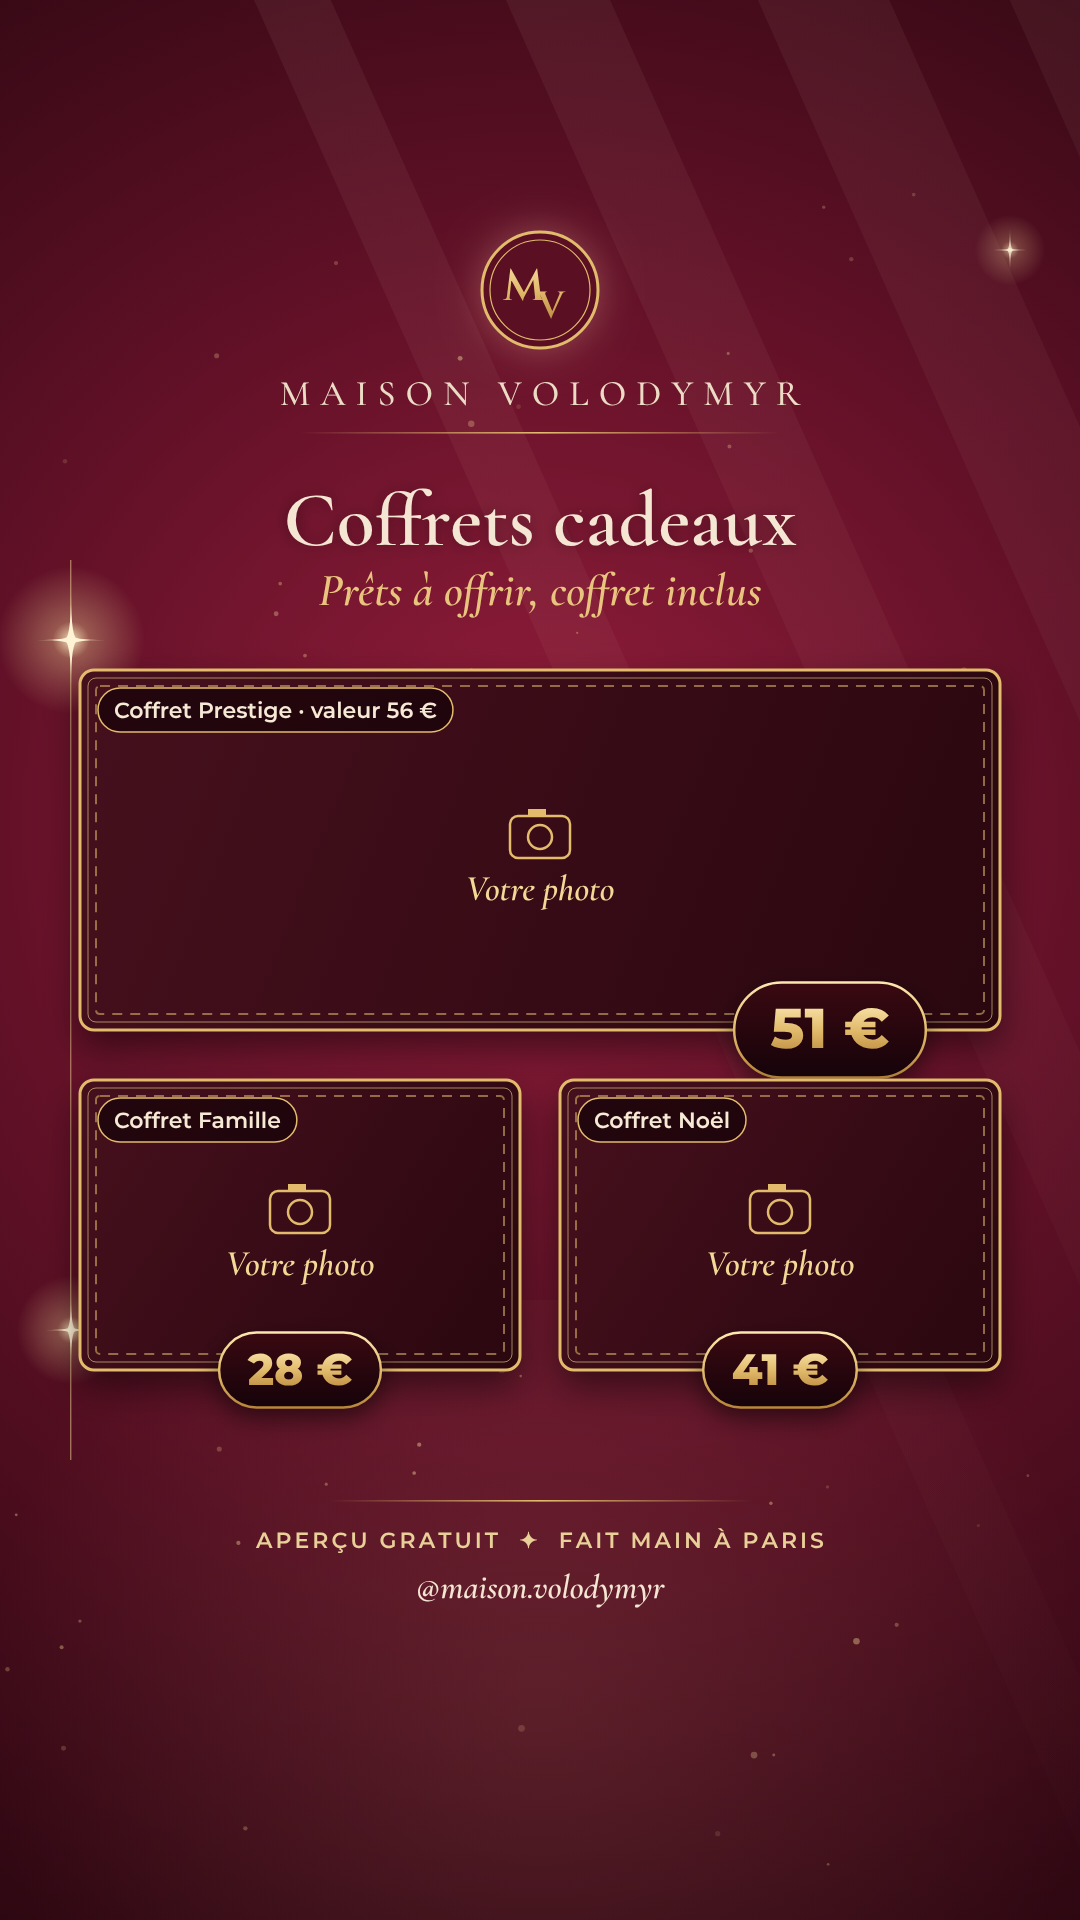
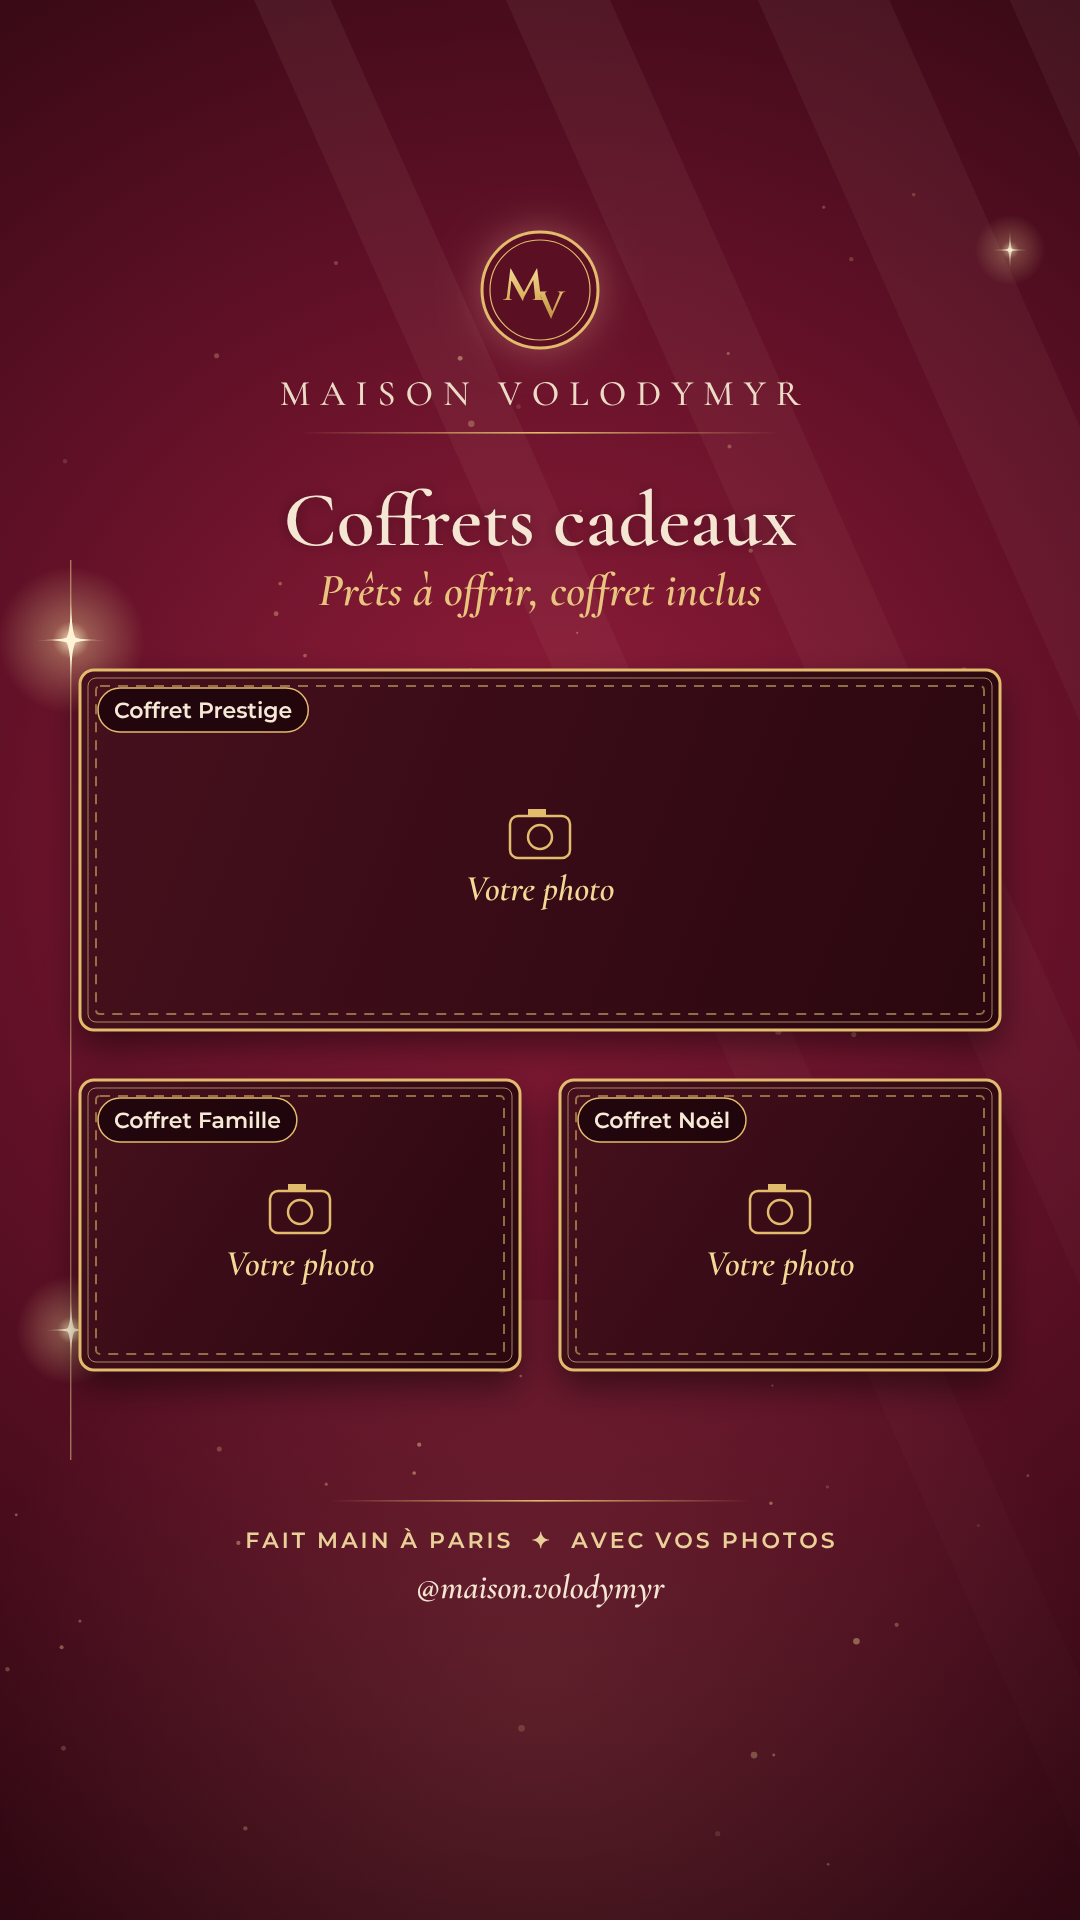
Remove prices outside Tarifs and the 'aperçu gratuit' line from visuals
Claude-Session: https://claude.ai/code/session_01NVYZfQU8cBxnfbyUcCNFxq

diff --git a/studio/studio.html b/studio/studio.html
@@ -46,7 +46,7 @@ input[type=range]{width:100%;accent-color:var(--gold)}
 <body>
 <div class="wrap">
  <h1>Studio Maison Volodymyr</h1>
- <p class="lead">Выбери слайд, нажми на рамку и вставь своё фото. Перетаскивай фото пальцем, масштабируй ползунком, меняй цены справа, потом нажми «Сохранить PNG». Слайды 1080×1920 (формат сторис 9:16), текст на французском. Верх и низ оставлены свободными под интерфейс Instagram.</p>
+ <p class="lead">Выбери слайд, нажми на рамку и вставь своё фото. Перетаскивай фото пальцем, масштабируй ползунком, цены (по желанию) и подписи меняй справа; пустое поле цены скрывает ценник, потом нажми «Сохранить PNG». Слайды 1080×1920 (формат сторис 9:16), текст на французском. Верх и низ оставлены свободными под интерфейс Instagram.</p>
  <div class="tabs" id="tabs" role="tablist"></div>
  <div class="main">
   <div class="stage"><canvas id="cv" width="1080" height="1920" aria-label="Предпросмотр слайда"></canvas><p class="hint">Пустые рамки сохраняются как красивая заглушка «Votre photo». В слайд «Отзывы» вставляй скриншот сообщения клиента (с его разрешения). Фото не уходят в интернет, они остаются только в этом окне.</p></div>
@@ -58,21 +58,21 @@ input[type=range]{width:100%;accent-color:var(--gold)}
 <script>
 const W=1080,H=1920,cv=document.getElementById('cv'),ctx=cv.getContext('2d');
 const DISP='"Cinzel",Georgia,serif',ITAL='italic 600 {s}px "Cormorant Garamond",Georgia,serif',SANS='Montserrat,Arial,sans-serif';
-const FOOT={f1:'APERÇU GRATUIT  ✦  FAIT MAIN À PARIS',f2:'@maison.volodymyr'};
+const FOOT={f1:'FAIT MAIN À PARIS  ✦  AVEC VOS PHOTOS',f2:'@maison.volodymyr'};
 const SL=[
- {id:'tasses',name:'☕ Кружки',title:'Tasses photo',sub:'Votre photo, votre cadeau',f:{p:'10 €',cap:'La tasse personnalisée'},fl:{p:'Цена кружки',cap:'Подпись'},
+ {id:'tasses',name:'☕ Кружки',title:'Tasses photo',sub:'Votre photo, votre cadeau',f:{p:'',cap:'La tasse personnalisée'},fl:{p:'Цена кружки',cap:'Подпись'},
   el:[{t:'slot',x:80,y:670,w:580,h:690,k:'mug'},{t:'slot',x:690,y:670,w:310,h:330,k:'mug'},{t:'slot',x:690,y:1030,w:310,h:330,k:'mug'},{t:'pill',x:370,y:1360,txt:'{p}'},{t:'it',x:540,y:1450,txt:'{cap}',s:36}]},
- {id:'metal',name:'🖼 Фото на металле',title:'Photo sur métal',sub:'Votre photo, sublimée',f:{s1:'15 × 20 cm',p1:'6 €',s2:'20 × 30 cm',p2:'8 €'},fl:{s1:'Формат 1',p1:'Цена 1',s2:'Формат 2',p2:'Цена 2'},
-  el:[{t:'slot',x:120,y:680,w:280,h:360,k:'metal'},{t:'size',x:470,y:820,txt:'{s1}'},{t:'arrow',x1:472,y1:885,x2:640,y2:885},{t:'pill',x:830,y:885,txt:'{p1}'},
-      {t:'slot',x:120,y:1085,w:280,h:360,k:'metal'},{t:'size',x:470,y:1225,txt:'{s2}'},{t:'arrow',x1:472,y1:1290,x2:640,y2:1290},{t:'pill',x:830,y:1290,txt:'{p2}'}]},
- {id:'grand',name:'🖼 Большой формат',title:'Grand format',sub:'Photo sur métal 30 × 40 cm',f:{p:'dès 25 €',small:'Aussi : 10 × 15 cm · 4 €   |   5,5 × 8,5 cm · 2 €'},fl:{p:'Цена 30×40',small:'Строка про другие форматы'},
+ {id:'metal',name:'🖼 Фото на металле',title:'Photo sur métal',sub:'Votre photo, sublimée',f:{s1:'15 × 20 cm',p1:'',s2:'20 × 30 cm',p2:''},fl:{s1:'Формат 1',p1:'Цена 1',s2:'Формат 2',p2:'Цена 2'},
+  el:[{t:'slot',x:120,y:680,w:280,h:360,k:'metal'},{t:'size',x:470,y:820,txt:'{s1}'},{t:'arrow',x1:472,y1:885,x2:640,y2:885,need:'p1'},{t:'pill',x:830,y:885,txt:'{p1}'},
+      {t:'slot',x:120,y:1085,w:280,h:360,k:'metal'},{t:'size',x:470,y:1225,txt:'{s2}'},{t:'arrow',x1:472,y1:1290,x2:640,y2:1290,need:'p2'},{t:'pill',x:830,y:1290,txt:'{p2}'}]},
+ {id:'grand',name:'🖼 Большой формат',title:'Grand format',sub:'Photo sur métal 30 × 40 cm',f:{p:'',small:'Aussi en 10 × 15 et 5,5 × 8,5 cm'},fl:{p:'Цена 30×40',small:'Строка про другие форматы'},
   el:[{t:'slot',x:285,y:680,w:510,h:680,k:'metal'},{t:'pill',x:540,y:1365,txt:'{p}'},{t:'small',x:540,y:1450,txt:'{small}'}]},
- {id:'cles',name:'🔑 Брелки и магниты',title:'Porte-clés & magnets',sub:'Petits cadeaux, grands souvenirs',f:{n1:'Porte-clés métal',p1:'4 €',n2:'Double face',p2:'5 €',n3:'Pendentif',p3:'8 €',n4:'Magnet photo',p4:'3 €',small:'Porte-clés plastique dès 2 €'},fl:{n1:'Название 1',p1:'Цена 1',n2:'Название 2',p2:'Цена 2',n3:'Название 3',p3:'Цена 3',n4:'Название 4',p4:'Цена 4',small:'Нижняя строка'},
+ {id:'cles',name:'🔑 Брелки и магниты',title:'Porte-clés & magnets',sub:'Petits cadeaux, grands souvenirs',f:{n1:'Porte-clés métal',p1:'',n2:'Double face',p2:'',n3:'Pendentif',p3:'',n4:'Magnet photo',p4:'',small:'Aussi en plastique'},fl:{n1:'Название 1',p1:'Цена 1',n2:'Название 2',p2:'Цена 2',n3:'Название 3',p3:'Цена 3',n4:'Название 4',p4:'Цена 4',small:'Нижняя строка'},
   el:[{t:'slot',x:85,y:670,w:430,h:320,k:'gold',tag:'{n1}'},{t:'pill',x:300,y:990,txt:'{p1}',sz:44},{t:'slot',x:565,y:670,w:430,h:320,k:'gold',tag:'{n2}'},{t:'pill',x:780,y:990,txt:'{p2}',sz:44},
       {t:'slot',x:85,y:1045,w:430,h:320,k:'gold',tag:'{n3}'},{t:'pill',x:300,y:1365,txt:'{p3}',sz:44},{t:'slot',x:565,y:1045,w:430,h:320,k:'gold',tag:'{n4}'},{t:'pill',x:780,y:1365,txt:'{p4}',sz:44},{t:'small',x:540,y:1450,txt:'{small}'}]},
  {id:'avis',name:'⭐ Отзывы',title:'Vos avis',sub:'Merci pour vos mots doux',f:{nom:'— Prénom du client',mot:'Collez ici les mots de votre client'},fl:{nom:'Подпись: имя настоящего клиента',mot:'Цитата из его настоящего отзыва'},
   el:[{t:'it',x:540,y:700,txt:'« {mot} »',s:40},{t:'slot',x:150,y:740,w:780,h:560,k:'gold'},{t:'stars',x:540,y:1365},{t:'small',x:540,y:1445,txt:'{nom}'}]},
- {id:'coffrets',name:'🎁 Наборы',title:'Coffrets cadeaux',sub:'Prêts à offrir, coffret inclus',f:{n1:'Coffret Prestige · valeur 56 €',p1:'51 €',n2:'Coffret Famille',p2:'28 €',n3:'Coffret Noël',p3:'41 €'},fl:{n1:'Набор 1',p1:'Цена 1',n2:'Набор 2',p2:'Цена 2',n3:'Набор 3',p3:'Цена 3'},
+ {id:'coffrets',name:'🎁 Наборы',title:'Coffrets cadeaux',sub:'Prêts à offrir, coffret inclus',f:{n1:'Coffret Prestige',p1:'',n2:'Coffret Famille',p2:'',n3:'Coffret Noël',p3:''},fl:{n1:'Набор 1',p1:'Цена 1',n2:'Набор 2',p2:'Цена 2',n3:'Набор 3',p3:'Цена 3'},
   el:[{t:'slot',x:80,y:670,w:920,h:360,k:'gold',tag:'{n1}'},{t:'pill',x:830,y:1030,txt:'{p1}'},{t:'slot',x:80,y:1080,w:440,h:290,k:'gold',tag:'{n2}'},{t:'pill',x:300,y:1370,txt:'{p2}',sz:44},{t:'slot',x:560,y:1080,w:440,h:290,k:'gold',tag:'{n3}'},{t:'pill',x:780,y:1370,txt:'{p3}',sz:44}]}
 ];
 let cur=0;const IM={};// key "slide.slot" -> {img,zoom,ox,oy}
@@ -126,7 +126,7 @@ function slot(s,e,i){
  if(e.tag){const t=fill(s,e.tag);ctx.font='600 22px '+SANS;const tw=ctx.measureText(t).width;ctx.fillStyle='rgba(26,4,9,.78)';rr(e.x+18,e.y+18,tw+32,44,22);ctx.fill();ctx.strokeStyle='#e2bb6c';ctx.lineWidth=1.5;ctx.stroke();ctx.fillStyle='#f6e9d6';ctx.textAlign='left';ctx.fillText(t,e.x+34,e.y+48)}
 }
 function pill(s,e){
- const t=fill(s,e.txt),sz=e.sz||56;ctx.font=`800 ${sz}px ${SANS}`;const tw=ctx.measureText(t).width,h=sz*1.7,w=tw+sz*1.3,x=e.x-w/2,y=e.y-h/2;
+ const t=fill(s,e.txt);if(!t.trim())return;const sz=e.sz||56;ctx.font=`800 ${sz}px ${SANS}`;const tw=ctx.measureText(t).width,h=sz*1.7,w=tw+sz*1.3,x=e.x-w/2,y=e.y-h/2;
  ctx.save();ctx.shadowColor='rgba(0,0,0,.55)';ctx.shadowBlur=26;ctx.shadowOffsetY=10;rr(x,y,w,h,h/2);const g=ctx.createLinearGradient(0,y,0,y+h);g.addColorStop(0,'#3a0911');g.addColorStop(1,'#16030a');ctx.fillStyle=g;ctx.fill();ctx.restore();
  ctx.lineWidth=2.5;ctx.strokeStyle=goldGrad(y,y+h);rr(x,y,w,h,h/2);ctx.stroke();
  ctx.fillStyle=goldGrad(y+h*.2,y+h*.8);ctx.textAlign='center';ctx.textBaseline='middle';ctx.fillText(t,e.x,e.y+2);ctx.textBaseline='alphabetic';
@@ -137,7 +137,7 @@ function draw(){
   if(e.t=='slot')slot(s,e,si++);
   else if(e.t=='pill')pill(s,e);
   else if(e.t=='size'){ctx.font='600 48px '+DISP;ctx.fillStyle=goldGrad(e.y-44,e.y);ctx.textAlign='left';ctx.fillText(fill(s,e.txt),e.x,e.y)}
-  else if(e.t=='arrow'){ctx.strokeStyle='#e2bb6c';ctx.lineWidth=2.5;ctx.beginPath();ctx.moveTo(e.x1,e.y1);ctx.lineTo(e.x2,e.y2);ctx.moveTo(e.x2-16,e.y2-11);ctx.lineTo(e.x2,e.y2);ctx.lineTo(e.x2-16,e.y2+11);ctx.stroke()}
+  else if(e.t=='arrow'){if(e.need&&!String(s.f[e.need]||'').trim())continue;ctx.strokeStyle='#e2bb6c';ctx.lineWidth=2.5;ctx.beginPath();ctx.moveTo(e.x1,e.y1);ctx.lineTo(e.x2,e.y2);ctx.moveTo(e.x2-16,e.y2-11);ctx.lineTo(e.x2,e.y2);ctx.lineTo(e.x2-16,e.y2+11);ctx.stroke()}
   else if(e.t=='it'){ctx.font=ITAL.replace('{s}',e.s||32);ctx.fillStyle='#f3d996';ctx.textAlign='center';ctx.fillText(fill(s,e.txt),e.x,e.y)}
   else if(e.t=='stars'){for(let k=0;k<5;k++){const cx=e.x+(k-2)*70,cy=e.y;ctx.beginPath();for(let j=0;j<10;j++){const r=j%2?13:30,an=-Math.PI/2+j*Math.PI/5;ctx.lineTo(cx+r*Math.cos(an),cy+r*Math.sin(an))}ctx.closePath();ctx.fillStyle=goldGrad(cy-30,cy+30);ctx.save();ctx.shadowColor='rgba(243,217,150,.6)';ctx.shadowBlur=18;ctx.fill();ctx.restore()}}
   else if(e.t=='small'){ctx.font='500 24px '+SANS;ctx.fillStyle='#f6e9d6';ctx.textAlign='center';ctx.fillText(fill(s,e.txt),e.x,e.y)}

diff --git a/instagram/generate_pack.js b/instagram/generate_pack.js
@@ -47,10 +47,10 @@ const step=(n,ic,t,d)=>`<div style="display:flex;align-items:center;gap:30px;bor
 <div><div class="gold" style="font:600 46px/1.05 'Cormorant Garamond',serif">${t}</div><div style="font-size:24px;line-height:1.35;color:#f0e2cc;margin-top:8px">${d}</div></div></div>`;
 const commander=page(`<div style="position:absolute;top:700px;left:100px;right:100px;display:grid;gap:34px">
 ${step(1,'photo','Envoyez votre photo','Sur WhatsApp, avec votre idée et la date souhaitée.')}
-${step(2,'eye','Validez l’aperçu','Nous préparons un aperçu gratuit. Vous dites « OK ».')}
+${step(2,'eye','Validez la maquette','Nous vous montrons le rendu avant l’impression.')}
 ${step(3,'gift','Récupérez votre cadeau','Fait main, prêt à offrir, dans son coffret.')}
 <div style="text-align:center;margin-top:8px"><span class="pill"><span class="gold" style="font-size:34px">WhatsApp +33 7 58 18 15 15</span></span></div></div>`,
-{title:'Comment commander',sub:'Simple comme un sourire',f1:'APERÇU GRATUIT  ✦  FAIT MAIN À PARIS'});
+{title:'Comment commander',sub:'Simple comme un sourire',f1:'FAIT MAIN À PARIS  ✦  AVEC VOS PHOTOS'});
 
 /* ---------- Tarifs ---------- */
 const row=(n,p)=>`<div style="display:flex;align-items:baseline;gap:14px;font-size:27px;color:#f4e6d3;padding:4px 0"><span>${n}</span><span style="flex:1;border-bottom:2px dotted rgba(226,187,108,.55);transform:translateY(-8px)"></span><b class="gold" style="font:800 30px Montserrat">${p}</b></div>`;
@@ -59,7 +59,7 @@ const tarifs=page(`<div style="position:absolute;top:680px;left:100px;right:100p
 ${grp('Tasses & photos sur métal',[['Tasse photo','10 €'],['Photo 5,5 × 8,5 cm','2 €'],['Photo 10 × 15 cm','4 €'],['Photo 15 × 20 cm','6 €'],['Photo 20 × 30 cm','8 €'],['Photo 30 × 40 cm','dès 25 €']])}
 ${grp('Porte-clés & magnets',[['Magnet photo','3 €'],['Porte-clés plastique / métal','2 € / 4 €'],['Porte-clés double face','5 €'],['Pendentif photo','8 €']])}
 <div style="text-align:center;font:italic 600 38px 'Cormorant Garamond',serif;color:#e9c47e">Coffrets cadeaux dès 12 €</div></div>`,
-{title:'Nos tarifs',sub:'Avec votre photo ou votre texte',f1:'APERÇU GRATUIT  ✦  FAIT MAIN À PARIS'});
+{title:'Nos tarifs',sub:'Avec votre photo ou votre texte',f1:'FAIT MAIN À PARIS  ✦  AVEC VOS PHOTOS'});
 
 /* ---------- mug mockup ---------- */
 let MID=0;
@@ -112,14 +112,13 @@ const HUMOUR=[
  ['Fragile',T(91,82,'FRAGILE','Bebas Neue',52,'#b8323f','letter-spacing="4"')+`<rect x="34" y="40" width="114" height="54" fill="none" stroke="#b8323f" stroke-width="3"/>`+T(91,134,'avant le café','Cormorant Garamond',22,'#2a1a1a','font-style="italic"')]
 ];
 const catalogue=(items,o)=>page(`<div style="position:absolute;top:680px;left:80px;right:80px;display:grid;grid-template-columns:repeat(3,1fr);gap:6px 6px">
-${items.map(([n,d])=>`<div style="text-align:center">${mug(d,208)}<div style="font:italic 600 26px 'Cormorant Garamond',serif;color:#f4e6d3;margin-top:-6px">${n}</div></div>`).join('')}</div>
-<div style="position:absolute;top:1405px;left:0;right:0;text-align:center"><span class="pill"><span class="gold" style="font-size:32px">Tasse personnalisée · 10 €</span></span></div>`,o);
+${items.map(([n,d])=>`<div style="text-align:center">${mug(d,208)}<div style="font:italic 600 26px 'Cormorant Garamond',serif;color:#f4e6d3;margin-top:-6px">${n}</div></div>`).join('')}</div>`,o);
 (async()=>{require('fs').mkdirSync(OUT,{recursive:true});const b=await chromium.launch();const p=await b.newPage({viewport:{width:1080,height:1920}});
  const shot=async(html,f,vp)=>{if(vp)await p.setViewportSize(vp);await p.setContent(html,{waitUntil:'networkidle'});await p.evaluate(()=>document.fonts.ready);await p.screenshot({path:OUT+f})};
  await shot(avatar,'avatar_MV.png',{width:1080,height:1080});
  await p.setViewportSize({width:1080,height:1920});
  await shot(commander,'commander.png');await shot(tarifs,'tarifs.png');
- await shot(catalogue(PROCHES,{title:'Tasses pour vos proches',sub:'Un mot doux pour chaque jour',f1:'VOTRE TEXTE OU VOTRE PHOTO  ✦  APERÇU GRATUIT'}),'tasses_proches.png');
- await shot(catalogue(GAMING,{title:'Tasses gaming',sub:'Pour les joueurs de la famille',f1:'VOTRE PSEUDO OU VOTRE PHOTO  ✦  APERÇU GRATUIT'}),'tasses_gaming.png');
- await shot(catalogue(HUMOUR,{title:'Tasses avec humour',sub:'Le café, mais avec le sourire',f1:'VOTRE PHRASE OU VOTRE PHOTO  ✦  APERÇU GRATUIT'}),'tasses_humour.png');
+ await shot(catalogue(PROCHES,{title:'Tasses pour vos proches',sub:'Un mot doux pour chaque jour',f1:'VOTRE TEXTE OU VOTRE PHOTO  ✦  FAIT MAIN À PARIS'}),'tasses_proches.png');
+ await shot(catalogue(GAMING,{title:'Tasses gaming',sub:'Pour les joueurs de la famille',f1:'VOTRE PSEUDO OU VOTRE PHOTO  ✦  FAIT MAIN À PARIS'}),'tasses_gaming.png');
+ await shot(catalogue(HUMOUR,{title:'Tasses avec humour',sub:'Le café, mais avec le sourire',f1:'VOTRE PHRASE OU VOTRE PHOTO  ✦  FAIT MAIN À PARIS'}),'tasses_humour.png');
  await b.close()})();

diff --git a/coffrets/generate_stories.js b/coffrets/generate_stories.js
@@ -55,7 +55,7 @@ h1{font:600 78px/1 "Cormorant Garamond",serif;margin-top:46px;text-shadow:0 4px 
 </style></head><body>${BG}<svg viewBox="0 0 1080 1920" width="1080" height="1920" style="position:absolute;inset:0">${DEFS}${dots()}<rect x="70" y="560" width="1.4" height="900" fill="rgba(243,217,150,.5)"/>${STAR(71,640,46)}${STAR(71,1330,34,.9)}${STAR(1010,250,22,.7)}</svg>
 <div class="top"><div class="mono">MV</div><div class="brand">MAISON VOLODYMYR</div><div class="line"></div><h1>${title}</h1><div class="sub">${sub}</div></div>
 <div class="list">${list.map(s=>`<div class="c ${s[4]?'hl':''}">${s[4]?`<span class="rib">${s[4]}</span>`:''}<div class="tx"><div class="n">${s[0]}</div><div class="o">${s[1]}</div><div class="ct">${s[2]}</div></div><div class="p"><span>${s[3]}</span></div></div>`).join('')}</div>
-<div class="foot"><div class="line"></div><div class="f1">COFFRET INCLUS  ✦  APERÇU GRATUIT</div><div class="f2">@maison.volodymyr</div></div></body></html>`;
+<div class="foot"><div class="line"></div><div class="f1">COFFRET INCLUS  ✦  FAIT MAIN À PARIS</div><div class="f2">@maison.volodymyr</div></div></body></html>`;
 (async()=>{const b=await chromium.launch();const p=await b.newPage({viewport:{width:1080,height:1920}});
  for(const k of Object.keys(ICONS)){await p.setContent(cover(k),{waitUntil:'networkidle'});await p.screenshot({path:`/home/user/geniy/instagram/covers/${k}.png`});}
  await p.setContent(story('Coffrets cadeaux','Personnalisés avec vos photos',SETS.slice(0,5)),{waitUntil:'networkidle'});await p.evaluate(()=>document.fonts.ready);await p.screenshot({path:'/home/user/geniy/coffrets/story_coffrets_1.png'});

diff --git a/coffrets/generate_bordeaux.js b/coffrets/generate_bordeaux.js
@@ -66,7 +66,7 @@ h1{font:600 64px/1 Cinzel,serif;text-align:center;margin:16px 0 4px;letter-spaci
 .f{margin-top:14px;border-top:2px solid #e2bb6c;padding-top:12px;text-align:center}.f1{font-weight:600;font-size:17px;letter-spacing:.14em;color:#e9cf98}.f2{font:italic 600 24px "Cormorant Garamond",serif;margin-top:4px}
 </style></head><body><div class="w bg"><div class="hd">${MONO}<div class="brand">MAISON VOLODYMYR</div></div><h1 class="gold">COFFRETS CADEAUX</h1><div class="sub">PERSONNALISÉS AVEC VOS PHOTOS · COFFRET INCLUS</div>
 <div class="g">${SETS.map(s=>`<div class="c ${s.rib?'hl':''}">${s.rib?`<span class="rib">${s.rib}</span>`:''}<div class="n gold">${s.n}</div><div class="o">${s.o}</div><div class="ct">${s.c}</div><div class="b"><div class="ics">${icons(s.ic)}</div><div>${s.v?`<div class="v">Valeur ${s.v}</div>`:''}<span class="pill"><span class="gold">${s.p}</span></span></div></div></div>`).join('')}</div>
-<div class="f"><div class="f1">APERÇU GRATUIT  ✦  FAIT MAIN À PARIS  ✦  WHATSAPP +33 7 58 18 15 15</div><div class="f2">@maison.volodymyr</div></div></div></body></html>`;
+<div class="f"><div class="f1">FAIT MAIN À PARIS  ✦  WHATSAPP +33 7 58 18 15 15</div><div class="f2">@maison.volodymyr</div></div></div></body></html>`;
 (async()=>{const b=await chromium.launch();const out='/home/user/geniy/coffrets/';
  let p=await b.newPage({viewport:{width:794,height:1123}});await p.setContent(A4,{waitUntil:'networkidle'});await p.evaluate(()=>document.fonts.ready);
  await p.pdf({path:out+'etiquettes_bordeaux_A4.pdf',format:'A4',printBackground:true,margin:{top:0,right:0,bottom:0,left:0}});
